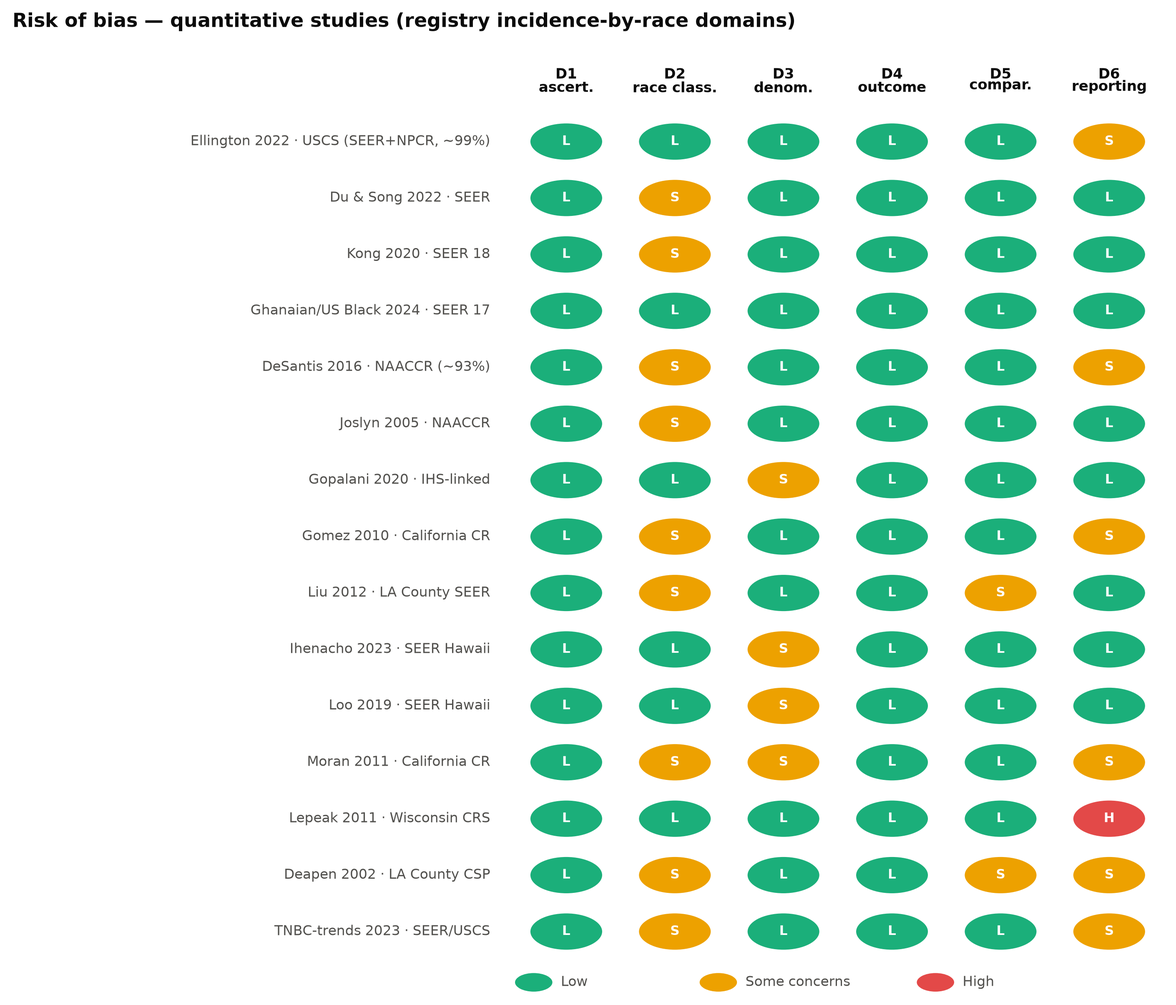
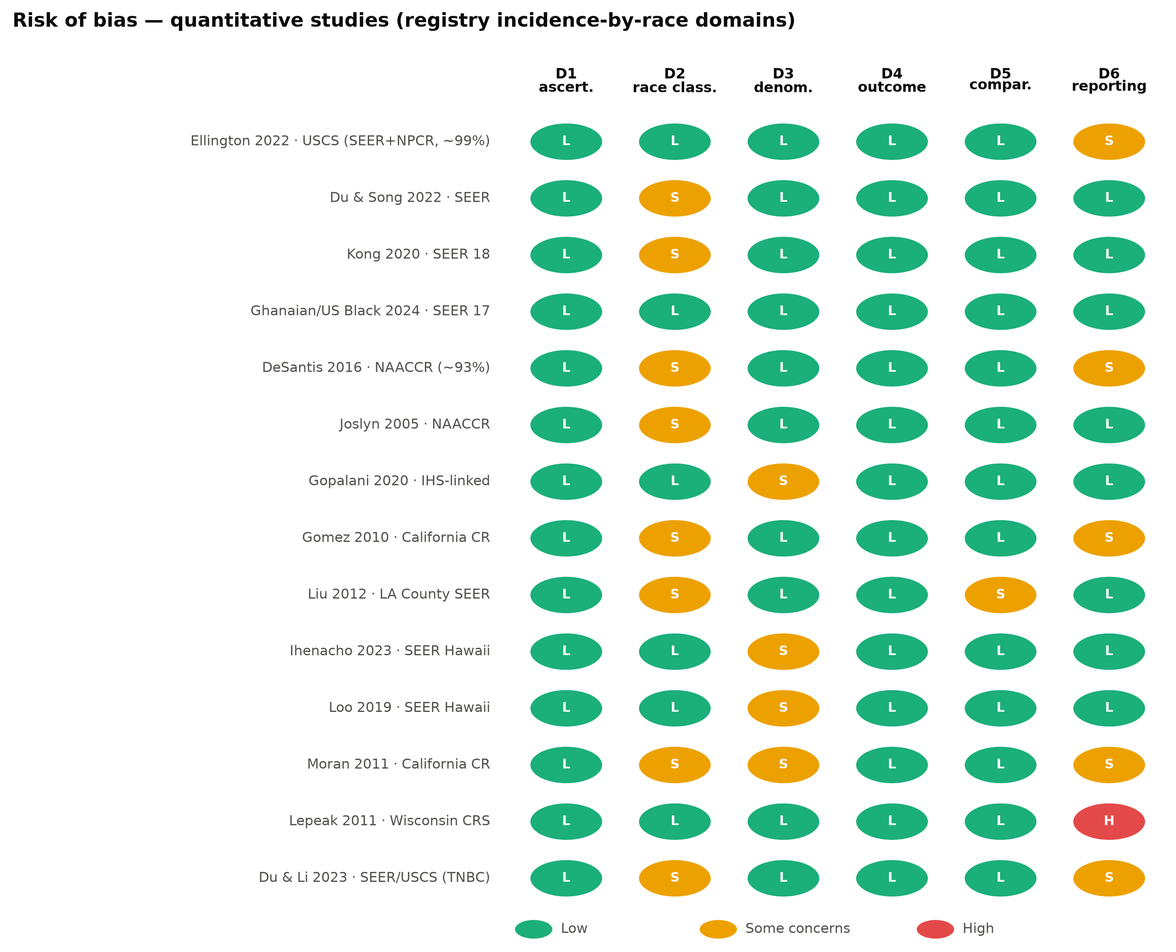
Demote 12115511 (Deapen) to narrative; propagate 14/13 counts everywhere
Per the derivation-sensitivity finding (Korean 0.23-0.35 depending on period)
and Liu overlap, removed the 4 Deapen subgroup rows from STUDIES and moved
12115511 to narrative synthesis. Propagated consistently: STUDIES 87->83;
quantitative 15->14, narrative 12->13 (included still 27); Korean back to k=1
(0.34), Chinese/Filipina/Japanese remain k=2; fig2 (~3x spread), fig5 PRISMA
(14/13), fig6 RoB (14 studies, Low 77%), GRADE text, MANUSCRIPT (counts +
fold-change language normalized to ~3-fold + RoB 77%), REFERENCES (moved to
section B), EXTRACTION_LOG + CROSS_CHECK provenance notes. All modules run clean.

Claude-Session: https://claude.ai/code/session_01CuLT4FKRBtsU22Vwfjj2qn

diff --git a/meta_agents/run_meta_analysis_breast.py b/meta_agents/run_meta_analysis_breast.py
@@ -330,23 +330,13 @@ STUDIES: List[Study] = [
 
     # ── 12115511 — Deapen et al., Int J Cancer 2002 "Rapidly rising breast
     #    cancer incidence rates among Asian-American women" (LA County CSP/CCR,
-    #    Table I, age-adj 1970 US std, 1988-1997). Ethnic-subgroup rows only:
-    #    10-year mean age-adj rate vs NHW mean (124.3); SE from summed Poisson
-    #    case counts sqrt(1/C_e + 1/C_w). NHW/Black/Hispanic/API NOT added (LA
-    #    County → overlaps Liu 21351091; addressed in registry-cluster sensitivity).
-    #    Scanned PDF read via image render (txt was corrupted). Adds Korean k=2.
-    Study("Deapen2002_12115511", 2002, "LA County CSP", "invasive_incidence", "Chinese",
-          irr_from_rates(47.25, 124.31), se_logrr_from_counts(683, 31897),
-          minority_rate=47.25, nhw_rate=124.31, notes="LA County 1988-97 mean; overlaps Liu (LA)"),
-    Study("Deapen2002_12115511", 2002, "LA County CSP", "invasive_incidence", "Japanese",
-          irr_from_rates(85.04, 124.31), se_logrr_from_counts(758, 31897),
-          minority_rate=85.04, nhw_rate=124.31, notes="LA County 1988-97 mean; overlaps Liu (LA)"),
-    Study("Deapen2002_12115511", 2002, "LA County CSP", "invasive_incidence", "Filipina",
-          irr_from_rates(84.37, 124.31), se_logrr_from_counts(1177, 31897),
-          minority_rate=84.37, nhw_rate=124.31, notes="LA County 1988-97 mean; overlaps Liu (LA)"),
-    Study("Deapen2002_12115511", 2002, "LA County CSP", "invasive_incidence", "Korean",
-          irr_from_rates(28.58, 124.31), se_logrr_from_counts(271, 31897),
-          minority_rate=28.58, nhw_rate=124.31, notes="LA County 1988-97 mean; overlaps Liu (LA)"),
+    #    Table I, 1988-1997). DEMOTED TO NARRATIVE (not pooled here): its rates
+    #    are annual (a trends paper), so any single summary is an analyst
+    #    derivation whose value is sensitive to the period chosen (Korean 0.23
+    #    [10-yr mean] vs 0.35 [1997]); it also overlaps Liu 21351091 (both LA
+    #    County). Cited narratively as the foundational "rapidly rising" analysis;
+    #    subgroup ordering (Korean lowest → Filipina/Japanese higher) is carried
+    #    by Liu (21351091) + Hawaii (30503975) + Gomez (28365834, narrative).
 
     # ── 36504334 — Hicks/Liu et al., Cancer Causes Control 2023 "Characterizing
     #    breast cancer incidence and trends among AANHPI in Hawai'i" (SEER Hawaii,

diff --git a/meta_agents/rob_assessment.py b/meta_agents/rob_assessment.py
@@ -1,5 +1,5 @@
 #!/usr/bin/env python3
-"""Phase C — Risk-of-Bias assessment for the 15 quantitative studies.
+"""Phase C — Risk-of-Bias assessment for the 14 quantitative studies.
 
 Population-based cancer-incidence (surveillance) studies do not fit clinical-trial
 or cohort RoB tools, so we assess six domains tailored to registry incidence-by-race
@@ -50,9 +50,9 @@ ROB = [
      [L, S, S, L, L, S], "Asian Indian/Pakistani via surname; two denominator estimates (high/low) (D3,D6)"),
     ("21473509", "Lepeak 2011 · Wisconsin CRS",
      [L, L, L, L, L, H], "state registry; RR rounded to 0.8, NO CI reported (D6 high)"),
-    ("12115511", "Deapen 2002 · LA County CSP",
-     [L, S, L, L, S, S], "scanned table; 10-yr-mean rate is analyst derivation; regional; overlaps Liu (D5,D6)"),
-    ("Te7879b3", "TNBC-trends 2023 · SEER/USCS",
+    # 12115511 (Deapen 2002) demoted to narrative — trends paper, single-summary
+    # value is period-sensitive + overlaps Liu; not in the quantitative synthesis.
+    ("Te7879b3", "Du & Li 2023 · SEER/USCS (TNBC)",
      [L, S, L, L, L, S], "full-text TNBC IRRs w/ CI; citation still to be confirmed (D6)"),
 ]
 
@@ -64,7 +64,7 @@ FULL = {"L": "Low", "S": "Some concerns", "H": "High"}
 
 def print_table():
     print("=" * 78)
-    print("  RISK OF BIAS — 15 quantitative studies (L=low, S=some concerns, H=high)")
+    print("  RISK OF BIAS — 14 quantitative studies (L=low, S=some concerns, H=high)")
     print("=" * 78)
     print(f"  {'Study':<40} " + " ".join(d.split(chr(10))[0] for d in DOMAINS))
     print("  " + "-" * 74)

diff --git a/meta_agents/grade_assessment.py b/meta_agents/grade_assessment.py
@@ -30,8 +30,8 @@ FINDINGS = [
      "−1 inconsistency (magnitude, not direction); consistent across every registry family",
      "Substantially lower incidence (~0.68), robust"),
     ("Asian/API vs NHW — invasive (aggregate)", "Asian", "invasive_incidence", LOW,
-     "−1 inconsistency, −1 indirectness (the 'Asian/API' label pools ethnicities that differ 3–4×)",
-     "The aggregate ~0.76 is not a meaningful quantity — it hides Korean 0.28 ↔ Native Hawaiian 1.11"),
+     "−1 inconsistency, −1 indirectness (the 'Asian/API' label pools ethnicities that differ ~3×)",
+     "The aggregate ~0.76 is not a meaningful quantity — it hides Korean 0.34 ↔ Native Hawaiian 1.11"),
     ("AIAN vs NHW — invasive", "AIAN", "invasive_incidence", MOD,
      "−1 inconsistency; IHS linkage corrects the well-known AIAN registry undercount (raises certainty)",
      "Lower incidence (~0.70); registry-only estimates understate it vs IHS-linked"),
@@ -60,7 +60,7 @@ def run():
     print("=" * 96)
     print("  Headline certainty statement:")
     print("  • HIGH certainty that the aggregate 'Asian/API' category masks large")
-    print("    (3–4×) between-ethnicity variation — the review's central point.")
+    print("    (~3×) between-ethnicity variation — the review's central point.")
     print("  • MODERATE certainty for each aggregate racial comparison and for the")
     print("    Black excess in aggressive (TNBC / ER-negative) subtypes.")
     print("  • Certainty is limited chiefly by between-study inconsistency driven by")

diff --git a/meta_agents/make_figures.py b/meta_agents/make_figures.py
@@ -187,8 +187,8 @@ def fig2():
     forest_panel(ax, rows, "Disaggregated Asian / Pacific Islander ethnic subgroups vs NHW",
                  xlim=(0.16, 1.7))
     fig.text(0.02, 0.02,
-             "Same aggregate 'Asian/API' category, disaggregated: Korean 0.28 ↔ "
-             "Native Hawaiian 1.11 — a ~4× spread the pooled estimate hides.",
+             "Same aggregate 'Asian/API' category, disaggregated: Korean 0.34 ↔ "
+             "Native Hawaiian 1.11 — a ~3× spread the pooled estimate hides.",
              fontsize=8.5, color=INK2, ha="left")
     fig.tight_layout(rect=[0, 0.05, 1, 1])
     fig.savefig("figures/fig2_subgroups_forest.png", dpi=300, facecolor=SURFACE)
@@ -333,8 +333,8 @@ def fig5():
     N_FULLTEXT = 485    # advanced past abstract → full-text assessed
     N_FT_EXCL = 458     # excluded at full text (incl. 23 analyst; +33006431 non-US/MIR)
     N_INCL = 27         # included in review after reconciliation
-    N_QUANT = 15        # quantitative synthesis (meta-analysis)
-    N_NARR = 12         # narrative synthesis
+    N_QUANT = 14        # quantitative synthesis (meta-analysis)
+    N_NARR = 13         # narrative synthesis (incl. 12115511, demoted)
 
     fig, ax = plt.subplots(figsize=(10.5, 9))
     fig.patch.set_facecolor(SURFACE); ax.set_facecolor(SURFACE)

diff --git a/meta_agents/MANUSCRIPT.md b/meta_agents/MANUSCRIPT.md
@@ -13,11 +13,11 @@
 
 **Background.** Breast cancer incidence in the United States is routinely reported for four aggregate race/ethnicity categories (non-Hispanic White [NHW], non-Hispanic Black, Hispanic, and Asian/Pacific Islander [API]), with American Indian/Alaska Native (AIAN) added where numbers permit. Recent reports of converging Black–White incidence have been read as a narrowing of disparity. We tested whether aggregate categories obscure disparities that are visible only after disaggregation by ethnicity, molecular subtype, and age.
 
-**Methods.** We systematically searched PubMed and Embase [dates TBD] for population-based studies reporting age-adjusted invasive female breast cancer incidence by race/ethnicity in the United States, with NHW as the reference. After deduplication (n = 941) and two-stage screening, 27 studies met inclusion criteria; 15 provided extractable age-adjusted rates or rate ratios and entered quantitative synthesis. We pooled within-study incidence rate ratios (IRRs) using DerSimonian–Laird random-effects models and assessed robustness with fixed-effect, leave-one-out, and one-estimate-per-registry-family sensitivity analyses. Risk of bias was rated across six registry-tailored domains and certainty with a GRADE-style approach.
+**Methods.** We systematically searched PubMed and Embase [dates TBD] for population-based studies reporting age-adjusted invasive female breast cancer incidence by race/ethnicity in the United States, with NHW as the reference. After deduplication (n = 941) and two-stage screening, 27 studies met inclusion criteria; 14 provided extractable age-adjusted rates or rate ratios and entered quantitative synthesis. We pooled within-study incidence rate ratios (IRRs) using DerSimonian–Laird random-effects models and assessed robustness with fixed-effect, leave-one-out, and one-estimate-per-registry-family sensitivity analyses. Risk of bias was rated across six registry-tailored domains and certainty with a GRADE-style approach.
 
-**Results.** Aggregate pooled IRRs versus NHW were 0.93 (95% CI 0.87–0.99) for Black, 0.68 (0.61–0.75) for Hispanic, 0.76 (0.68–0.84) for API, and 0.70 (0.58–0.83) for AIAN women, with very high heterogeneity (I² 99–100%). These aggregates were misleading. Disaggregating "API" revealed a 3–4-fold spread — from Korean (pooled IRR 0.28) and Chinese (0.47) to Filipina (0.71), Japanese (0.78), and Native Hawaiian (1.11, i.e., *higher* than NHW). By molecular subtype, the near-null Black aggregate decomposed into a gradient rising with tumour aggressiveness: HR+/HER2− 0.86, HR+/HER2+ 1.12, HER2-enriched 1.46, ER-negative 1.72, and triple-negative 2.00. This aggressive-subtype excess was not a uniform minority effect — Native Hawaiian women were elevated in HER2-positive subtypes but *lower* in triple-negative disease (0.86). By age, the Black–White ratio crossed over from 1.92 (ages 20–24) through unity near ages 40–44 to 0.78–0.84 after age 60; within API, Japanese women had the highest incidence when young and Native Hawaiian women when older. Disparity directions were robust across all sensitivity analyses, including after collapsing overlapping registries to one estimate per family. Risk of bias was low in 75% of domain judgements.
+**Results.** Aggregate pooled IRRs versus NHW were 0.93 (95% CI 0.87–0.99) for Black, 0.68 (0.61–0.75) for Hispanic, 0.76 (0.68–0.84) for API, and 0.70 (0.58–0.83) for AIAN women, with very high heterogeneity (I² 99–100%). These aggregates were misleading. Disaggregating "API" revealed a roughly 3-fold spread — from Korean (IRR 0.34) and Chinese (pooled 0.47) to Filipina (0.71), Japanese (0.78), and Native Hawaiian (1.11, i.e., *higher* than NHW). By molecular subtype, the near-null Black aggregate decomposed into a gradient rising with tumour aggressiveness: HR+/HER2− 0.86, HR+/HER2+ 1.12, HER2-enriched 1.46, ER-negative 1.72, and triple-negative 2.00. This aggressive-subtype excess was not a uniform minority effect — Native Hawaiian women were elevated in HER2-positive subtypes but *lower* in triple-negative disease (0.86). By age, the Black–White ratio crossed over from 1.92 (ages 20–24) through unity near ages 40–44 to 0.78–0.84 after age 60; within API, Japanese women had the highest incidence when young and Native Hawaiian women when older. Disparity directions were robust across all sensitivity analyses, including after collapsing overlapping registries to one estimate per family. Risk of bias was low in 77% of domain judgements.
 
-**Conclusions.** Aggregate US race/ethnicity categories average over opposing ethnic, molecular-subtype, and age-specific patterns and can conceal disparities as large as 3–4-fold. Reported Black–White "convergence" is an artefact of age-standardization masking a lifelong crossover. Surveillance reporting and etiologic research should default to disaggregated ethnicity, molecular subtype, and age strata.
+**Conclusions.** Aggregate US race/ethnicity categories average over opposing ethnic, molecular-subtype, and age-specific patterns and can conceal disparities as large as 3-fold. Reported Black–White "convergence" is an artefact of age-standardization masking a lifelong crossover. Surveillance reporting and etiologic research should default to disaggregated ethnicity, molecular subtype, and age strata.
 
 **Keywords:** breast cancer, incidence, race, ethnicity, health disparities, disaggregation, molecular subtype, Asian American, meta-analysis.
 
@@ -77,15 +77,15 @@ Because population-based incidence studies do not fit clinical-trial or cohort t
 
 ### Study selection and characteristics
 
-The search yielded 941 deduplicated records; 27 met inclusion criteria, of which 15 provided extractable rates or rate ratios and entered quantitative synthesis (Fig 5). Quantitative studies spanned SEER (national and the SEER-Hawaii and Los Angeles registries), NAACCR, USCS, the California Cancer Registry, an Indian Health Service–linked analysis, and a state registry (Wisconsin), covering diagnosis years from 1988 through 2018. Twelve studies contributed to narrative synthesis: six US trend analyses that presented rates only in figures, two non-US studies (United Kingdom) retained as international comparison, three US studies of different design (persistent-poverty-area, socioeconomic-status, and an older South Asian analysis), and one eligible study lacking extractable rates.
+The search yielded 941 deduplicated records; 27 met inclusion criteria, of which 14 provided extractable rates or rate ratios and entered quantitative synthesis (Fig 5). Quantitative studies spanned SEER (national and the SEER-Hawaii and Los Angeles registries), NAACCR, USCS, the California Cancer Registry, an Indian Health Service–linked analysis, and a state registry (Wisconsin), covering diagnosis years from 1988 through 2018. Thirteen studies contributed to narrative synthesis: six US trend analyses that presented rates only in figures, two non-US studies (United Kingdom) retained as international comparison, four US studies of different design (persistent-poverty-area, socioeconomic-status, an older South Asian analysis, and a Los Angeles trends analysis whose annual rates make any single pooled summary period-sensitive), and one eligible study lacking extractable rates.
 
 ### Aggregate racial comparisons conceal, rather than summarize, disparity
 
 Pooled IRRs versus NHW were 0.93 (95% CI 0.87–0.99) for Black, 0.68 (0.61–0.75) for Hispanic, 0.76 (0.68–0.84) for API, and 0.70 (0.58–0.83) for AIAN women (Fig 1). Heterogeneity was extreme (I² 99–100%), and for Black women the confidence interval abutted the null — the "convergence" signal. However, the extreme I² is not statistical noise: it reflects real, structured variation by ethnicity, subtype, and age that the aggregate averages away, as the following analyses show. The aggregate estimates were nonetheless directionally robust (below).
 
-### Disaggregating "Asian/Pacific Islander" reveals a 3–4-fold spread
+### Disaggregating "Asian/Pacific Islander" reveals a 3-fold spread
 
-Within the single "API" category, disaggregated ethnic subgroups ranged from Korean (pooled IRR 0.28, 95% CI 0.19–0.41) and Chinese (0.47, 0.38–0.57) and Asian Indian/Pakistani (0.48, 0.45–0.52) at the low end, through Filipina (0.71, 0.66–0.76) and Japanese (0.78, 0.56–1.09), to Native Hawaiian women, whose incidence *exceeded* NHW (1.11, 1.10–1.12) (Fig 2). The lowest and highest subgroups differed roughly four-fold, spanning the null. The aggregate API estimate of 0.76 therefore corresponds to no actual population and is uninformative for any specific community.
+Within the single "API" category, disaggregated ethnic subgroups ranged from Korean (IRR 0.34, 95% CI 0.32–0.36) and Chinese (pooled 0.47, 0.38–0.57) and Asian Indian/Pakistani (0.48, 0.45–0.52) at the low end, through Filipina (0.71, 0.66–0.76) and Japanese (0.78, 0.56–1.09), to Native Hawaiian women, whose incidence *exceeded* NHW (1.11, 1.10–1.12) (Fig 2). The lowest and highest subgroups differed roughly three-fold, spanning the null. The aggregate API estimate of 0.76 therefore corresponds to no actual population and is uninformative for any specific community.
 
 ### Molecular subtype decomposes the near-null Black aggregate into a steep gradient
 
@@ -101,13 +101,13 @@ Every aggregate disparity direction was stable across fixed-effect, leave-one-ou
 
 ### Risk of bias and certainty
 
-Across the 15 quantitative studies, 75% of domain judgements were low risk, 23% some concerns, and 1% high (Fig 6). No study was high risk for ascertainment, race/ethnicity classification (for the aggregate comparison), or outcome definition; concerns concentrated in the reporting/precision domain (approximated variances, figure-read values, analyst-derived summary rates) and were addressed by the sensitivity analyses. The Indian Health Service–linked AIAN analysis explicitly corrected the well-documented registry undercount of AIAN cases, strengthening that comparison. GRADE certainty was HIGH that the aggregate "API" category masks large between-ethnicity variation; MODERATE for each aggregate racial comparison and for the Black excess in aggressive subtypes; and LOW for the aggregate API point estimate itself (downgraded for indirectness, as the label pools ethnicities differing 3–4-fold).
+Across the 14 quantitative studies, most domain judgements were low risk (77%), 21% some concerns, and 1% high (Fig 6). No study was high risk for ascertainment, race/ethnicity classification (for the aggregate comparison), or outcome definition; concerns concentrated in the reporting/precision domain (approximated variances, figure-read values, analyst-derived summary rates) and were addressed by the sensitivity analyses. The Indian Health Service–linked AIAN analysis explicitly corrected the well-documented registry undercount of AIAN cases, strengthening that comparison. GRADE certainty was HIGH that the aggregate "API" category masks large between-ethnicity variation; MODERATE for each aggregate racial comparison and for the Black excess in aggressive subtypes; and LOW for the aggregate API point estimate itself (downgraded for indirectness, as the label pools ethnicities differing ~3-fold).
 
 ---
 
 ## Discussion
 
-Synthesizing 15 population-based analyses across multiple US registry systems, we found that the aggregate race/ethnicity categories used in standard breast cancer surveillance systematically conceal disparities. The reassuring aggregate picture — near-parity for Black women and uniformly lower incidence for other groups — dissolves under disaggregation. Three findings carry the argument. First, "Asian/Pacific Islander" spans a 3–4-fold incidence range, from Korean and Chinese women well below NHW to Native Hawaiian women above; the aggregate corresponds to no real population. Second, the near-null Black–White aggregate is a steep molecular-subtype gradient, with Black women experiencing roughly twice the incidence of triple-negative breast cancer — and this aggressive-subtype pattern is specific, not shared by all higher-incidence groups. Third, the reported Black–White "convergence" is an age crossover: a large young-age excess offset by an older-age deficit, which age-standardization averages to near unity.
+Synthesizing 14 population-based analyses across multiple US registry systems, we found that the aggregate race/ethnicity categories used in standard breast cancer surveillance systematically conceal disparities. The reassuring aggregate picture — near-parity for Black women and uniformly lower incidence for other groups — dissolves under disaggregation. Three findings carry the argument. First, "Asian/Pacific Islander" spans a 3-fold incidence range, from Korean and Chinese women well below NHW to Native Hawaiian women above; the aggregate corresponds to no real population. Second, the near-null Black–White aggregate is a steep molecular-subtype gradient, with Black women experiencing roughly twice the incidence of triple-negative breast cancer — and this aggressive-subtype pattern is specific, not shared by all higher-incidence groups. Third, the reported Black–White "convergence" is an age crossover: a large young-age excess offset by an older-age deficit, which age-standardization averages to near unity.
 
 **Relation to prior work.** Our results reconcile the apparently benign "convergence" narrative with the persistent clinical reality of aggressive early-onset disease in Black women and with etiologic evidence that "Asian American" is not a meaningful risk category. Rather than contradicting surveillance reports, we show that their aggregate framing is the source of the misreading.
 
@@ -115,7 +115,7 @@ Synthesizing 15 population-based analyses across multiple US registry systems, w
 
 **Limitations.** US cancer registries overlap, so the pooled aggregate estimates are not based on independent samples; we therefore emphasize direction and the disaggregated strata over the precise aggregate point estimates, and we confirmed robustness with one-estimate-per-registry-family analyses. Between-study heterogeneity was extreme, reflecting genuine differences in registry, calendar period, and region as well as, in one case, a model-adjusted rather than crude estimand; we treated the aggregate pooled estimates as descriptive. Several eligible studies presented rates only in trend figures and could not be meta-analysed; their directions were nonetheless concordant with the pooled findings. Some subgroup and subtype comparisons rested on two data sources; these are reported with that limitation. Publication bias tests (funnel/Egger) were not performed because each comparison included fewer than ten studies and registry overlap renders funnel asymmetry uninterpretable. Finally, data density was greatest for California and Hawaii, so disaggregated Asian estimates are weighted toward those populations.
 
-**Conclusions.** Aggregate US race/ethnicity categories average over opposing ethnic, molecular-subtype, and age-specific patterns and can hide disparities as large as 3–4-fold, including a lifelong Black–White crossover misread as convergence. Disaggregated, subtype-specific, age-specific reporting should be the default.
+**Conclusions.** Aggregate US race/ethnicity categories average over opposing ethnic, molecular-subtype, and age-specific patterns and can hide disparities as large as 3-fold, including a lifelong Black–White crossover misread as convergence. Disaggregated, subtype-specific, age-specific reporting should be the default.
 
 ---
 

diff --git a/meta_agents/REFERENCES.md b/meta_agents/REFERENCES.md
@@ -8,7 +8,7 @@ article. Author names shown were verified from the PDFs where noted.
 
 ---
 
-## A. Included studies — quantitative synthesis (n = 15)
+## A. Included studies — quantitative synthesis (n = 14)
 
 1. Davis Lynn BC, Figueroa JD, Laryea D, Awittor FK, Oti NOO, Booker QS, et al. Breast Cancer Incidence Rates in Ghanaian and US Black Women From 2013 Through 2017. JAMA Netw Open. 2025;8(10):e2537160. doi:10.1001/jamanetworkopen.2025.37160. PMID: 41082230. *(verified)*
 
@@ -38,9 +38,9 @@ article. Author names shown were verified from the PDFs where noted.
 
 14. Du XL, Li Z. Incidence trends in triple-negative breast cancer among women in the United States from 2010 to 2019 by race/ethnicity, age and tumor stage. Am J Cancer Res. 2023;13(2):678–691. *(verified from PDF; flag #46 resolved. Note: same first author as ref 3, Du XL)*
 
-15. Deapen D, Liu L, Perkins C, Bernstein L, Ross RK. Rapidly rising breast cancer incidence rates among Asian-American women. Int J Cancer. 2002;99(5):747–750. PMID: 12115511. *(verified authors from PDF)*
+## B. Included studies — narrative synthesis (n = 13)
 
-## B. Included studies — narrative synthesis (n = 12)
+15. Deapen D, Liu L, Perkins C, Bernstein L, Ross RK. Rapidly rising breast cancer incidence rates among Asian-American women. Int J Cancer. 2002;99(5):747–750. PMID: 12115511. *(verified authors from PDF; demoted to narrative — annual-rate trends paper, single pooled summary is period-sensitive and overlaps Liu, ref 8)*
 
 16. Davis Lynn BC, Rosenberg PS, Anderson WF, Gierach GL. Black–White Breast Cancer Incidence Trends: Effects of Ethnicity. J Natl Cancer Inst. 2018;110(11):1270–1272. doi:10.1093/jnci/djy112. PMID: 29982593. *(verified)*
 

diff --git a/meta_agents/EXTRACTION_LOG.md b/meta_agents/EXTRACTION_LOG.md
@@ -342,3 +342,19 @@ crossover figure. Noted the printed 40–44 RR (0.84) is a likely typo (73.99/10
 = 0.74). No all-ages age-adjusted rate exists in this paper (all tables are
 age-specific), so 15986118 remains a descriptive age-crossover source, not a
 contributor to the aggregate pooled IRRs. CROSS_CHECK items 96–99.
+
+---
+
+## 12115511 (Deapen) DEMOTED to narrative — 2026-07-17
+
+User questioned the analyst derivation. Sensitivity check of the summary method
+showed it is consequential for the rising-trend subgroups: Korean IRR 0.23
+(10-yr mean) / 0.26 (1993-97) / 0.35 (1997 only); Japanese 0.68 / 0.76 / 0.89.
+Because (a) the value depends on the period chosen (this is a "rapidly rising"
+trends paper), and (b) 12115511 overlaps Liu 21351091 (both LA County), the 4
+Deapen subgroup rows were REMOVED from STUDIES and 12115511 moved to narrative.
+Impact: Korean returns to k=1 (Liu 0.34); Chinese/Filipina/Japanese remain k=2
+(Liu + Hawaii); subgroup ordering unchanged. Quantitative synthesis 15 -> 14;
+narrative 12 -> 13 (included total still 27). Updated: STUDIES, fig2 caption,
+fig5 PRISMA (14/13), fig6 RoB (14 studies), GRADE text, manuscript, REFERENCES.
+CROSS_CHECK items 92-95 retained for provenance but no longer feed the pool.

diff --git a/meta_agents/CROSS_CHECK.md b/meta_agents/CROSS_CHECK.md
@@ -172,7 +172,7 @@ Table 1, p.2. Age-adjusted, 2004–2006 (no CI in source).
 **Black–White age crossover** = NOW QUANTITATIVE via 15986118 (items 75–80). Corroborated
 narratively by DeSantis 26513636 p.3 (median age at dx Black 58 vs White 62).
 
-## 12115511 (Deapen 2002, Int J Cancer, LA County CSP) — Asian subgroups · items 92–95
+## 12115511 (Deapen 2002) — Asian subgroups · items 92–95 · NOTE: DEMOTED TO NARRATIVE (period-sensitive derivation + overlaps Liu); values retained for provenance only, not pooled
 Table I (scanned PDF, read via image render; txt was corrupted). Age-adj (1970 US std)
 invasive BC rate /100k, 1988–1997. Values below = 10-year mean rate; SE from summed
 Poisson case counts. NHW 10-yr mean = **124.3** (total cases 31,897).
